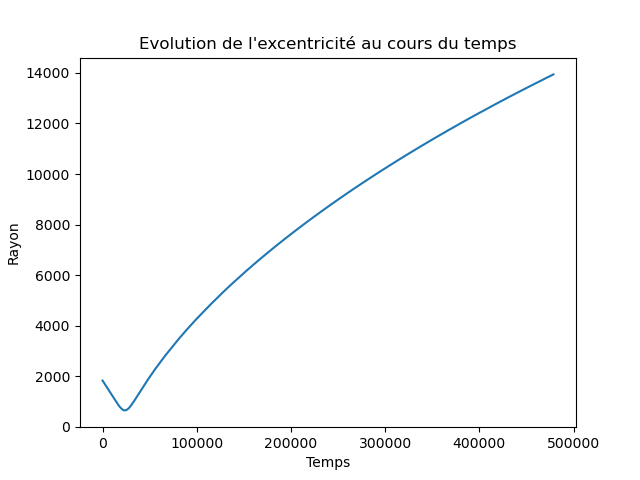
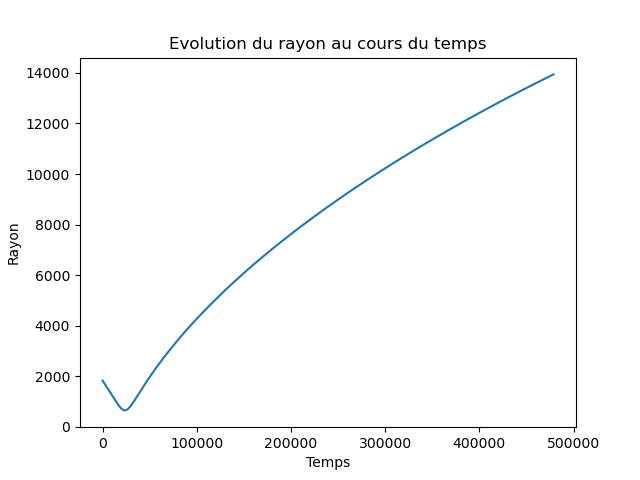
plots changed

Changed region(s): [[0.2188, 0.0625, 0.8125, 0.125]]

diff --git a/Analyse/Excentricité/excentricity.py b/Analyse/Excentricité/excentricity.py
@@ -14,7 +14,7 @@ import matplotlib.pyplot as plt
 
 # Programme principal
 if __name__=='__main__':
-    path = 'C:/Users/pierr/Documents/GitHub/phantomcomplete/Analyse/DATA'
+    path = 'C:/Users/pierr/Documents/GitHub/phantomcomplete/Analyse/Excentricité/DATA'
     files = os.listdir(path)
     files_data = [i for i in files if i.startswith('sinks')]
     # files_ascii = [i for i in files if i.endswith('.ascii')]
@@ -37,7 +37,7 @@ if __name__=='__main__':
         radius_time = data['r'].tolist()
         plt.figure()
         plt.plot(time,radius_time)
-        plt.title("Evolution de l'excentricité au cours du temps")
+        plt.title("Evolution du rayon au cours du temps")
         plt.xlabel('Temps')
         plt.ylabel('Rayon')
         plt.savefig(path+'/'+'plotradius%s.png'%(sinks_file))
@@ -50,7 +50,7 @@ if __name__=='__main__':
             radius_criterium = 800
             
             time_interest = time_arr[radius_time_arr<radius_criterium]
-            print("Zone d'intérêt : ",time_interest)
+            # print("Zone d'intérêt : ",time_interest)
         if sinks_file.endswith('2'):
             fig, ax = plt.subplots()
             ax.plot(time,eccentricity_time)
